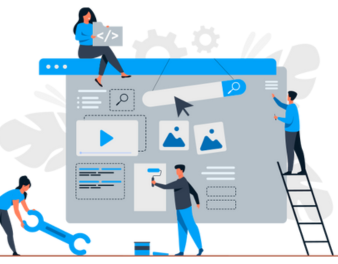
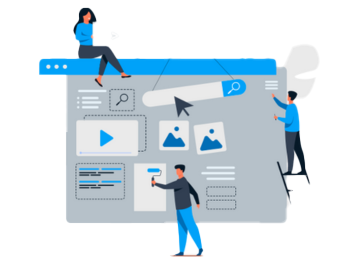
Criação da Aba Serviços com Cartões

diff --git a/index.html b/index.html
@@ -73,7 +73,7 @@
                 </div>
             </div>
         </div>
-
+        <!-- Sobre -->
     </section>
     <section id="sobre">
         <div class="container">
@@ -101,9 +101,9 @@
 
         </div>
     </section>
-
+    <!-- Contato Faixa -->
     <section id="contato">
-        <div class="container2">
+        <div class="container">
             <div id="conteudocontato">
                 <h2>
                     Entre em Contato
@@ -124,17 +124,49 @@
             </div>
         </div>
     </section>
-
+    <!-- Cartões Serviços -->
     <section id="serviços">
         <div class="container">
-            <div id="conteudoserviços">
+            <div class="card">
+
+                <img src="/img/destaque.png" alt="Criação de sites profissionais">
                 <h2>
-                    serviços
+                    Criação de Sites Profissionais e Soluções Personalizadas
                 </h2>
                 <p>
-                    a
+                    Sites profissionais e personalizados, feitos para fortalecer sua presença online, transmitir
+                    credibilidade e gerar resultados reais para o seu negócio.
                 </p>
+                <a href="https://wa.me/5511952098723?text=Ol%C3%A1%2C%20gostaria%20de%20mais%20informa%C3%A7%C3%B5es%20sobre%20Cria%C3%A7%C3%A3o%20de%20Sites%20Profissionais%20e%20Solu%C3%A7%C3%B5es%20Personalizadas"
+                    target="_blank" rel="noopener noreferrer" class="btn2">Solicitar</a>
             </div>
+
+            <div class="card">
+                <img src="/img/destaque2.png" alt="Administração de Redes Sociais e Marketing Digital Estratégico">
+                <h2>
+                    Gestão de Redes Sociais e Marketing Digital Estratégico
+                </h2>
+                <p>
+                    Mais que postagens: unimos gestão de redes sociais e marketing digital estratégico para gerar
+                    engajamento, autoridade e crescimento sustentável.
+                </p>
+                <a href="https://wa.me/5511952098723?text=Ol%C3%A1%2C%20gostaria%20de%20mais%20informa%C3%A7%C3%B5es%20sobre%20Gest%C3%A3o%20de%20Redes%20Sociais%20e%20Marketing%20Digital%20Estrat%C3%A9gico"
+                    target="_blank" rel="noopener noreferrer" class="btn2">Solicitar</a>
+            </div>
+
+            <div class="card">
+                <img src="/img/destaque3.png" alt="Recriação de Marca com Briefing Personalizado">
+                <h2>
+                    Recriação de Marca com Briefing Exclusivo e Estratégico
+                </h2>
+                <p>
+                    Sua marca vai muito além de um logotipo — é a expressão da essência, dos valores e dos objetivos do
+                    seu negócio, recriada com estratégia.
+                </p>
+                <a href="https://wa.me/5511952098723?text=Ol%C3%A1%2C%20gostaria%20de%20mais%20informa%C3%A7%C3%B5es%20sobre%20Recria%C3%A7%C3%A3o%20de%20Marca%20com%20Briefing%20Exclusivo%20e%20Estrat%C3%A9gico"
+                    target="_blank" rel="noopener noreferrer" class="btn2">Solicitar</a>
+            </div>
+
         </div>
     </section>
 </body>

diff --git a/style.css b/style.css
@@ -4,7 +4,7 @@
 :root {
     --azul: #2e7a96;
     --azulEscuro: #14243c;
-    --azulMedio: #191c25;
+    --azulMedio: #2a375f;
     --preto: #000000;
     --branco: #ffff;
     --verde: #88e788;
@@ -53,6 +53,56 @@ html {
     transform: translateY(-3px);
     box-shadow: 0 10px 20px rgba(0, 0, 0, 0.2);
 }
+
+/*Serviços Cartão*/
+.card {
+    width: 342px;
+    height: 560px;
+    background-color: var(--azulMedio);
+    margin-bottom: 25px;
+    border: solid 2px var(--azuleletrico);
+    border-radius: 50px;
+    text-align: center;
+}
+
+.card img {
+    border-radius: 25px 25px 0px 0px;
+}
+
+.card h2 {
+    font-size: 1.1rem;
+    margin: 15px 0px;
+    color: var(--branco);
+    text-shadow: 0px 5px 10px var(--preto), 0px 10px 10px rgba(0, 0, 0, 0.15), 0px 15px 15px rgba(0, 0, 0, 0.1), 0px 20px 20px rgba(0, 0, 0, 0.1);
+}
+
+.card p {
+    color: var(--branco);
+    text-align: left;
+    font-size: 1rem;
+    padding: 15px 10px 15px 15px;
+}
+
+.card a.btn {
+    font-size: 1rem;
+    padding: 1rem 5rem;
+}
+
+.btn2 {
+    text-decoration: none;
+    font-size: 1.30rem;
+    font-weight: 500;
+    background-color: var(--branco);
+    padding: 10px 20px;
+    color: var(--azuleletrico);
+    border-radius: 50px;
+    border: 1px solid var(--azuleletrico);
+    display: block;
+    width: fit-content;
+    margin-top: 10px;
+    margin-left: 106px;
+}
+
 
 /* Fim - Layout <<<<<<<<<<<<<<<<<<<<<<<<<<< */
 
@@ -248,7 +298,7 @@ main h2 {
 }
 
 /* Contato */
-#contato .container2 {
+#contato .container {
     margin-bottom: 10px;
     text-align: center;
 }
@@ -289,6 +339,26 @@ main h2 {
     border: 10px;
     text-align: center;
     margin-top: 20px;
+}
+
+/*Serviços Cartões */
+
+#serviços .container>h2 {
+    color: var(--branco);
+    font-size: 1.6rem;
+    text-align: center;
+    text-shadow: 0px 5px 10px var(--preto), 0px 10px 10px rgba(0, 0, 0, 0.15), 0px 15px 15px rgba(0, 0, 0, 0.1), 0px 20px 20px rgba(0, 0, 0, 0.1);
+    margin-bottom: 15px;
+}
+
+#serviços {
+    background-color: var(--azulEscuro);
+    padding: 30px 0px 25px 0px;
+}
+
+#serviços .container {
+    flex-direction: column;
+    align-items: center;
 }
 
 
@@ -442,6 +512,18 @@ main h2 {
     #contato .qrcode-img {
         display: none;
     }
+
+    /*Serviços Cartões*/
+
+    #serviços .container {
+        flex-direction: row;
+        flex-wrap: wrap;
+        justify-content: space-around;
+    }
+
+    .card {
+        margin-right: 25px;
+    }
 }
 
 /* Fim - TTablet landscape >>>>>>>>>>>>>>>> */
@@ -531,15 +613,16 @@ main h2 {
     }
 
     /* Contato */
-    #contato .container2 {
+    .container {
         display: flex;
-        flex-direction: row; 
+        flex-direction: row;
     }
 
 
     #contato p {
         color: var(--branco);
-        font-size: 0.8rem;
+        font-size: 1rem;
+        font-weight: 700;
         margin-bottom: 15px;
         margin-bottom: 20px;
     }
